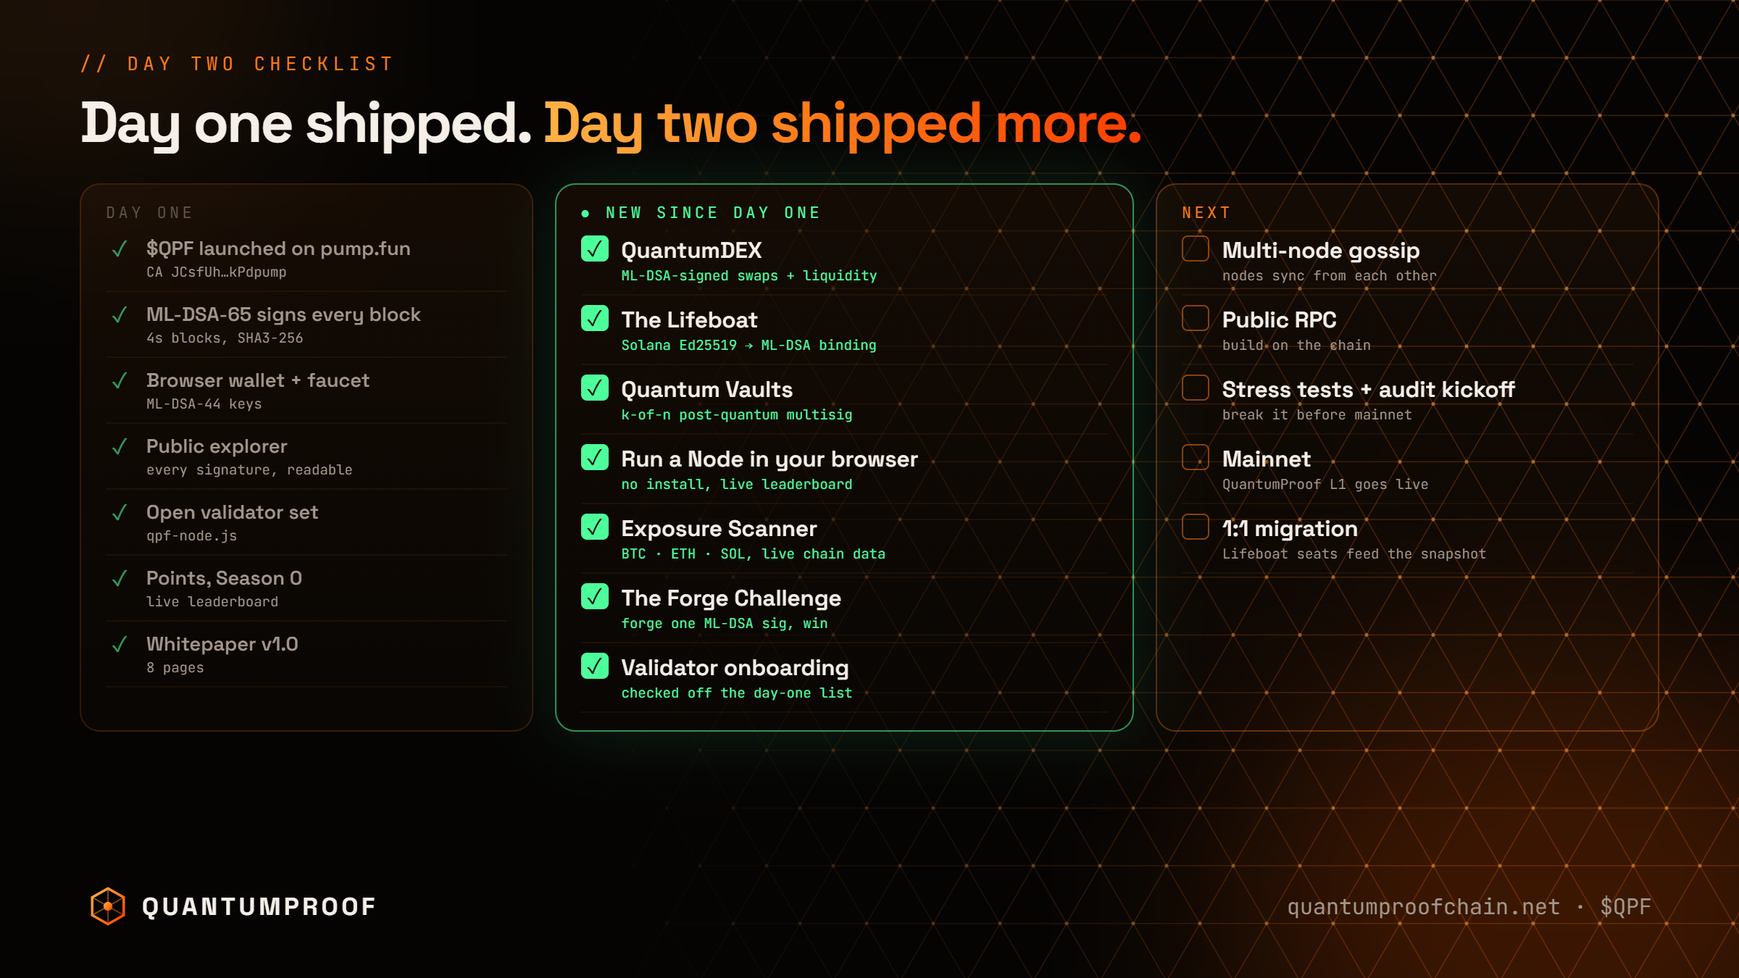
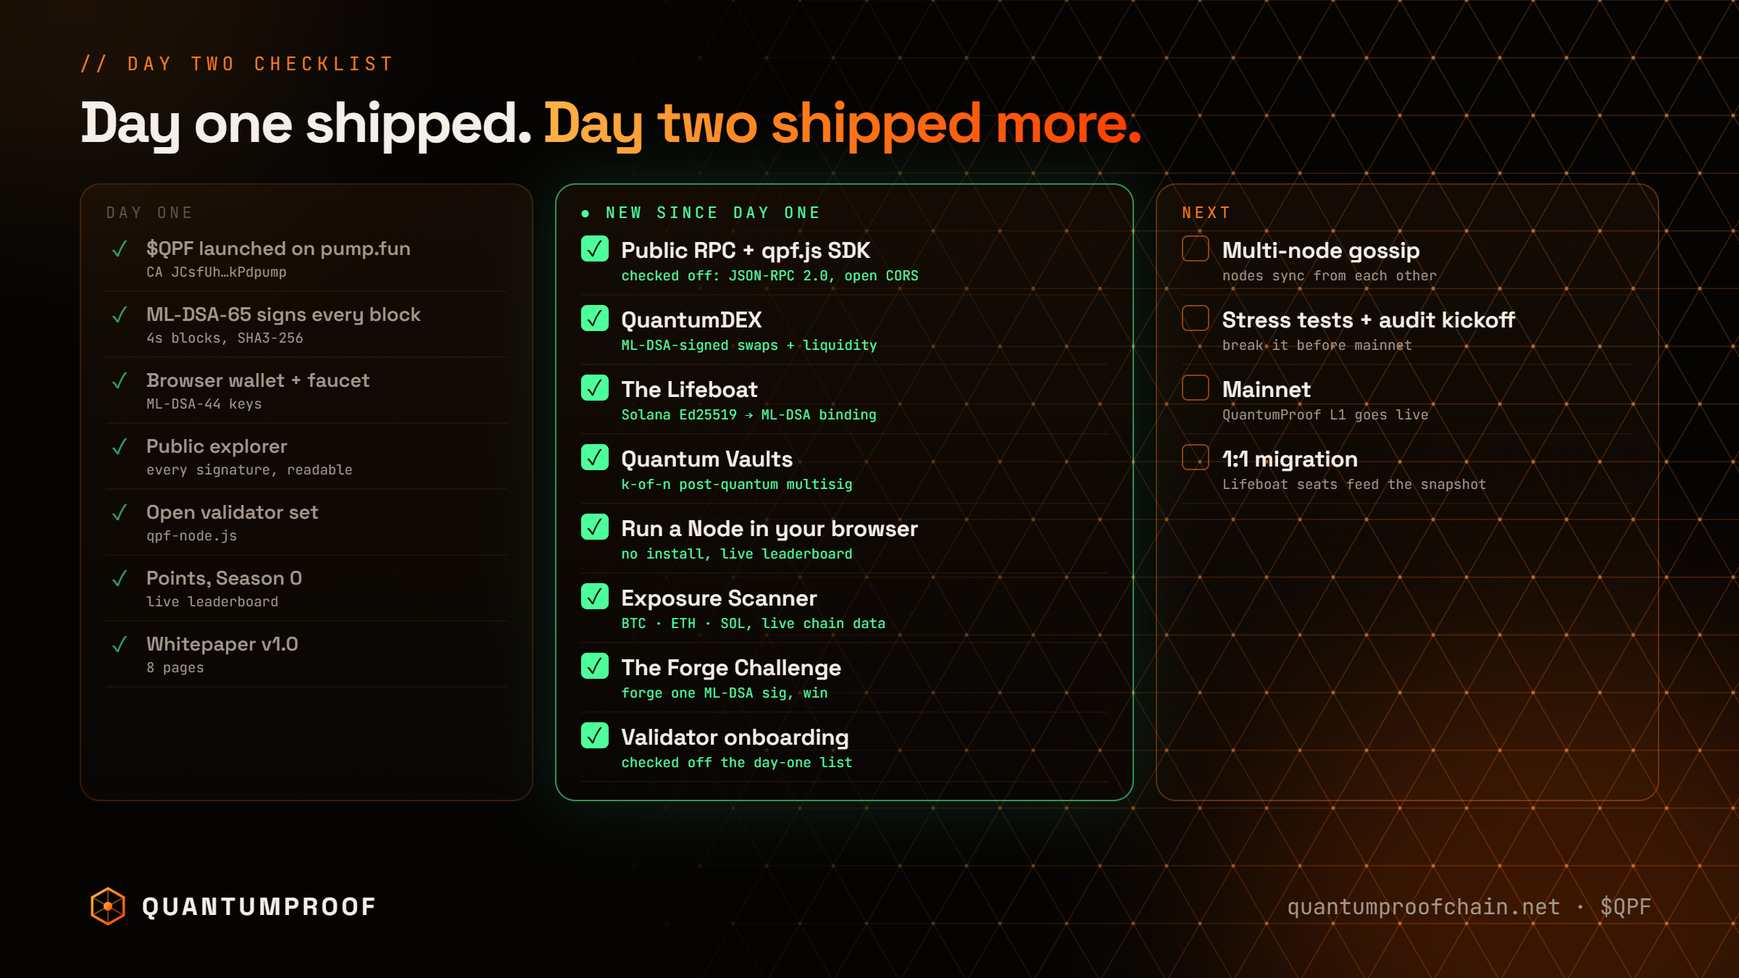
Day-two checklist: Public RPC checked off

diff --git a/_studio/src/qpf-checklist-day2.html b/_studio/src/qpf-checklist-day2.html
@@ -13,5 +13,5 @@ x.strokeStyle='rgba(255,122,24,'+(0.22*f)+')';x.beginPath();x.moveTo(px,py);x.li
 x.fillStyle='rgba(255,170,80,'+(.5*f)+')';x.beginPath();x.arc(px,py,2.6,0,7);x.fill();}})()</script>
 <div class="glow" style="width:900px;height:700px;right:-200px;bottom:-250px;background:rgba(255,90,0,.22)"></div><div class="glow" style="width:700px;height:500px;left:-250px;top:-250px;background:rgba(255,140,40,.1)"></div><div style="position:absolute;left:110px;right:110px;top:70px">
    <div class="k" style="font-size:26px">// day two checklist</div><div style="font-size:80px;font-weight:700;letter-spacing:-.035em;margin-top:12px">Day one shipped. <span class="g">Day two shipped more.</span></div>
-   <div style="display:grid;grid-template-columns:.9fr 1.15fr 1fr;gap:30px;margin-top:34px"><div class="card" style="padding:24px 34px;border-color:rgba(255,122,24,.16);"><div class="m" style="font-size:22px;letter-spacing:.2em;color:#5e544b;margin-bottom:4px">DAY ONE</div><div style="display:flex;gap:18px;align-items:flex-start;padding:13px 0;border-bottom:2px solid rgba(255,122,24,.07)"><span class="m" style="font-size:30px;line-height:36px;width:38px;flex:none;text-align:center;color:#4dff9a;opacity:.6">✓</span><div><div style="font-size:27px;font-weight:600;color:#a3968a">$QPF launched on pump.fun</div><div class="m mu" style="font-size:19px;margin-top:3px">CA JCsfUh…kPdpump</div></div></div><div style="display:flex;gap:18px;align-items:flex-start;padding:13px 0;border-bottom:2px solid rgba(255,122,24,.07)"><span class="m" style="font-size:30px;line-height:36px;width:38px;flex:none;text-align:center;color:#4dff9a;opacity:.6">✓</span><div><div style="font-size:27px;font-weight:600;color:#a3968a">ML-DSA-65 signs every block</div><div class="m mu" style="font-size:19px;margin-top:3px">4s blocks, SHA3-256</div></div></div><div style="display:flex;gap:18px;align-items:flex-start;padding:13px 0;border-bottom:2px solid rgba(255,122,24,.07)"><span class="m" style="font-size:30px;line-height:36px;width:38px;flex:none;text-align:center;color:#4dff9a;opacity:.6">✓</span><div><div style="font-size:27px;font-weight:600;color:#a3968a">Browser wallet + faucet</div><div class="m mu" style="font-size:19px;margin-top:3px">ML-DSA-44 keys</div></div></div><div style="display:flex;gap:18px;align-items:flex-start;padding:13px 0;border-bottom:2px solid rgba(255,122,24,.07)"><span class="m" style="font-size:30px;line-height:36px;width:38px;flex:none;text-align:center;color:#4dff9a;opacity:.6">✓</span><div><div style="font-size:27px;font-weight:600;color:#a3968a">Public explorer</div><div class="m mu" style="font-size:19px;margin-top:3px">every signature, readable</div></div></div><div style="display:flex;gap:18px;align-items:flex-start;padding:13px 0;border-bottom:2px solid rgba(255,122,24,.07)"><span class="m" style="font-size:30px;line-height:36px;width:38px;flex:none;text-align:center;color:#4dff9a;opacity:.6">✓</span><div><div style="font-size:27px;font-weight:600;color:#a3968a">Open validator set</div><div class="m mu" style="font-size:19px;margin-top:3px">qpf-node.js</div></div></div><div style="display:flex;gap:18px;align-items:flex-start;padding:13px 0;border-bottom:2px solid rgba(255,122,24,.07)"><span class="m" style="font-size:30px;line-height:36px;width:38px;flex:none;text-align:center;color:#4dff9a;opacity:.6">✓</span><div><div style="font-size:27px;font-weight:600;color:#a3968a">Points, Season 0</div><div class="m mu" style="font-size:19px;margin-top:3px">live leaderboard</div></div></div><div style="display:flex;gap:18px;align-items:flex-start;padding:13px 0;border-bottom:2px solid rgba(255,122,24,.07)"><span class="m" style="font-size:30px;line-height:36px;width:38px;flex:none;text-align:center;color:#4dff9a;opacity:.6">✓</span><div><div style="font-size:27px;font-weight:600;color:#a3968a">Whitepaper v1.0</div><div class="m mu" style="font-size:19px;margin-top:3px">8 pages</div></div></div></div><div class="card" style="padding:24px 34px;border-color:rgba(77,255,154,.55);box-shadow:0 0 90px rgba(77,255,154,.12)"><div class="m" style="font-size:22px;letter-spacing:.2em;color:#4dff9a;margin-bottom:4px">● NEW SINCE DAY ONE</div><div style="display:flex;gap:18px;align-items:flex-start;padding:13px 0;border-bottom:2px solid rgba(255,122,24,.07)"><span class="m" style="font-size:30px;line-height:36px;width:38px;flex:none;text-align:center;color:#050403;background:#4dff9a;border-radius:8px">✓</span><div><div style="font-size:31px;font-weight:600;">QuantumDEX</div><div class="m ok" style="font-size:19px;margin-top:3px">ML-DSA-signed swaps + liquidity</div></div></div><div style="display:flex;gap:18px;align-items:flex-start;padding:13px 0;border-bottom:2px solid rgba(255,122,24,.07)"><span class="m" style="font-size:30px;line-height:36px;width:38px;flex:none;text-align:center;color:#050403;background:#4dff9a;border-radius:8px">✓</span><div><div style="font-size:31px;font-weight:600;">The Lifeboat</div><div class="m ok" style="font-size:19px;margin-top:3px">Solana Ed25519 → ML-DSA binding</div></div></div><div style="display:flex;gap:18px;align-items:flex-start;padding:13px 0;border-bottom:2px solid rgba(255,122,24,.07)"><span class="m" style="font-size:30px;line-height:36px;width:38px;flex:none;text-align:center;color:#050403;background:#4dff9a;border-radius:8px">✓</span><div><div style="font-size:31px;font-weight:600;">Quantum Vaults</div><div class="m ok" style="font-size:19px;margin-top:3px">k-of-n post-quantum multisig</div></div></div><div style="display:flex;gap:18px;align-items:flex-start;padding:13px 0;border-bottom:2px solid rgba(255,122,24,.07)"><span class="m" style="font-size:30px;line-height:36px;width:38px;flex:none;text-align:center;color:#050403;background:#4dff9a;border-radius:8px">✓</span><div><div style="font-size:31px;font-weight:600;">Run a Node in your browser</div><div class="m ok" style="font-size:19px;margin-top:3px">no install, live leaderboard</div></div></div><div style="display:flex;gap:18px;align-items:flex-start;padding:13px 0;border-bottom:2px solid rgba(255,122,24,.07)"><span class="m" style="font-size:30px;line-height:36px;width:38px;flex:none;text-align:center;color:#050403;background:#4dff9a;border-radius:8px">✓</span><div><div style="font-size:31px;font-weight:600;">Exposure Scanner</div><div class="m ok" style="font-size:19px;margin-top:3px">BTC · ETH · SOL, live chain data</div></div></div><div style="display:flex;gap:18px;align-items:flex-start;padding:13px 0;border-bottom:2px solid rgba(255,122,24,.07)"><span class="m" style="font-size:30px;line-height:36px;width:38px;flex:none;text-align:center;color:#050403;background:#4dff9a;border-radius:8px">✓</span><div><div style="font-size:31px;font-weight:600;">The Forge Challenge</div><div class="m ok" style="font-size:19px;margin-top:3px">forge one ML-DSA sig, win</div></div></div><div style="display:flex;gap:18px;align-items:flex-start;padding:13px 0;border-bottom:2px solid rgba(255,122,24,.07)"><span class="m" style="font-size:30px;line-height:36px;width:38px;flex:none;text-align:center;color:#050403;background:#4dff9a;border-radius:8px">✓</span><div><div style="font-size:31px;font-weight:600;">Validator onboarding</div><div class="m ok" style="font-size:19px;margin-top:3px">checked off the day-one list</div></div></div></div><div class="card" style="padding:24px 34px;border-color:rgba(255,122,24,.3);"><div class="m" style="font-size:22px;letter-spacing:.2em;color:#ff7a18;margin-bottom:4px">NEXT</div><div style="display:flex;gap:18px;align-items:flex-start;padding:13px 0;border-bottom:2px solid rgba(255,122,24,.07)"><span class="m" style="font-size:30px;line-height:36px;width:38px;flex:none;text-align:center;border:2px solid rgba(255,122,24,.5);border-radius:8px;height:36px"></span><div><div style="font-size:31px;font-weight:600;">Multi-node gossip</div><div class="m mu" style="font-size:19px;margin-top:3px">nodes sync from each other</div></div></div><div style="display:flex;gap:18px;align-items:flex-start;padding:13px 0;border-bottom:2px solid rgba(255,122,24,.07)"><span class="m" style="font-size:30px;line-height:36px;width:38px;flex:none;text-align:center;border:2px solid rgba(255,122,24,.5);border-radius:8px;height:36px"></span><div><div style="font-size:31px;font-weight:600;">Public RPC</div><div class="m mu" style="font-size:19px;margin-top:3px">build on the chain</div></div></div><div style="display:flex;gap:18px;align-items:flex-start;padding:13px 0;border-bottom:2px solid rgba(255,122,24,.07)"><span class="m" style="font-size:30px;line-height:36px;width:38px;flex:none;text-align:center;border:2px solid rgba(255,122,24,.5);border-radius:8px;height:36px"></span><div><div style="font-size:31px;font-weight:600;">Stress tests + audit kickoff</div><div class="m mu" style="font-size:19px;margin-top:3px">break it before mainnet</div></div></div><div style="display:flex;gap:18px;align-items:flex-start;padding:13px 0;border-bottom:2px solid rgba(255,122,24,.07)"><span class="m" style="font-size:30px;line-height:36px;width:38px;flex:none;text-align:center;border:2px solid rgba(255,122,24,.5);border-radius:8px;height:36px"></span><div><div style="font-size:31px;font-weight:600;">Mainnet</div><div class="m mu" style="font-size:19px;margin-top:3px">QuantumProof L1 goes live</div></div></div><div style="display:flex;gap:18px;align-items:flex-start;padding:13px 0;border-bottom:2px solid rgba(255,122,24,.07)"><span class="m" style="font-size:30px;line-height:36px;width:38px;flex:none;text-align:center;border:2px solid rgba(255,122,24,.5);border-radius:8px;height:36px"></span><div><div style="font-size:31px;font-weight:600;">1:1 migration</div><div class="m mu" style="font-size:19px;margin-top:3px">Lifeboat seats feed the snapshot</div></div></div></div></div></div>
+   <div style="display:grid;grid-template-columns:.9fr 1.15fr 1fr;gap:30px;margin-top:34px"><div class="card" style="padding:24px 34px;border-color:rgba(255,122,24,.16);"><div class="m" style="font-size:22px;letter-spacing:.2em;color:#5e544b;margin-bottom:4px">DAY ONE</div><div style="display:flex;gap:18px;align-items:flex-start;padding:13px 0;border-bottom:2px solid rgba(255,122,24,.07)"><span class="m" style="font-size:30px;line-height:36px;width:38px;flex:none;text-align:center;color:#4dff9a;opacity:.6">✓</span><div><div style="font-size:27px;font-weight:600;color:#a3968a">$QPF launched on pump.fun</div><div class="m mu" style="font-size:19px;margin-top:3px">CA JCsfUh…kPdpump</div></div></div><div style="display:flex;gap:18px;align-items:flex-start;padding:13px 0;border-bottom:2px solid rgba(255,122,24,.07)"><span class="m" style="font-size:30px;line-height:36px;width:38px;flex:none;text-align:center;color:#4dff9a;opacity:.6">✓</span><div><div style="font-size:27px;font-weight:600;color:#a3968a">ML-DSA-65 signs every block</div><div class="m mu" style="font-size:19px;margin-top:3px">4s blocks, SHA3-256</div></div></div><div style="display:flex;gap:18px;align-items:flex-start;padding:13px 0;border-bottom:2px solid rgba(255,122,24,.07)"><span class="m" style="font-size:30px;line-height:36px;width:38px;flex:none;text-align:center;color:#4dff9a;opacity:.6">✓</span><div><div style="font-size:27px;font-weight:600;color:#a3968a">Browser wallet + faucet</div><div class="m mu" style="font-size:19px;margin-top:3px">ML-DSA-44 keys</div></div></div><div style="display:flex;gap:18px;align-items:flex-start;padding:13px 0;border-bottom:2px solid rgba(255,122,24,.07)"><span class="m" style="font-size:30px;line-height:36px;width:38px;flex:none;text-align:center;color:#4dff9a;opacity:.6">✓</span><div><div style="font-size:27px;font-weight:600;color:#a3968a">Public explorer</div><div class="m mu" style="font-size:19px;margin-top:3px">every signature, readable</div></div></div><div style="display:flex;gap:18px;align-items:flex-start;padding:13px 0;border-bottom:2px solid rgba(255,122,24,.07)"><span class="m" style="font-size:30px;line-height:36px;width:38px;flex:none;text-align:center;color:#4dff9a;opacity:.6">✓</span><div><div style="font-size:27px;font-weight:600;color:#a3968a">Open validator set</div><div class="m mu" style="font-size:19px;margin-top:3px">qpf-node.js</div></div></div><div style="display:flex;gap:18px;align-items:flex-start;padding:13px 0;border-bottom:2px solid rgba(255,122,24,.07)"><span class="m" style="font-size:30px;line-height:36px;width:38px;flex:none;text-align:center;color:#4dff9a;opacity:.6">✓</span><div><div style="font-size:27px;font-weight:600;color:#a3968a">Points, Season 0</div><div class="m mu" style="font-size:19px;margin-top:3px">live leaderboard</div></div></div><div style="display:flex;gap:18px;align-items:flex-start;padding:13px 0;border-bottom:2px solid rgba(255,122,24,.07)"><span class="m" style="font-size:30px;line-height:36px;width:38px;flex:none;text-align:center;color:#4dff9a;opacity:.6">✓</span><div><div style="font-size:27px;font-weight:600;color:#a3968a">Whitepaper v1.0</div><div class="m mu" style="font-size:19px;margin-top:3px">8 pages</div></div></div></div><div class="card" style="padding:24px 34px;border-color:rgba(77,255,154,.55);box-shadow:0 0 90px rgba(77,255,154,.12)"><div class="m" style="font-size:22px;letter-spacing:.2em;color:#4dff9a;margin-bottom:4px">● NEW SINCE DAY ONE</div><div style="display:flex;gap:18px;align-items:flex-start;padding:13px 0;border-bottom:2px solid rgba(255,122,24,.07)"><span class="m" style="font-size:30px;line-height:36px;width:38px;flex:none;text-align:center;color:#050403;background:#4dff9a;border-radius:8px">✓</span><div><div style="font-size:31px;font-weight:600;">Public RPC + qpf.js SDK</div><div class="m ok" style="font-size:19px;margin-top:3px">checked off: JSON-RPC 2.0, open CORS</div></div></div><div style="display:flex;gap:18px;align-items:flex-start;padding:13px 0;border-bottom:2px solid rgba(255,122,24,.07)"><span class="m" style="font-size:30px;line-height:36px;width:38px;flex:none;text-align:center;color:#050403;background:#4dff9a;border-radius:8px">✓</span><div><div style="font-size:31px;font-weight:600;">QuantumDEX</div><div class="m ok" style="font-size:19px;margin-top:3px">ML-DSA-signed swaps + liquidity</div></div></div><div style="display:flex;gap:18px;align-items:flex-start;padding:13px 0;border-bottom:2px solid rgba(255,122,24,.07)"><span class="m" style="font-size:30px;line-height:36px;width:38px;flex:none;text-align:center;color:#050403;background:#4dff9a;border-radius:8px">✓</span><div><div style="font-size:31px;font-weight:600;">The Lifeboat</div><div class="m ok" style="font-size:19px;margin-top:3px">Solana Ed25519 → ML-DSA binding</div></div></div><div style="display:flex;gap:18px;align-items:flex-start;padding:13px 0;border-bottom:2px solid rgba(255,122,24,.07)"><span class="m" style="font-size:30px;line-height:36px;width:38px;flex:none;text-align:center;color:#050403;background:#4dff9a;border-radius:8px">✓</span><div><div style="font-size:31px;font-weight:600;">Quantum Vaults</div><div class="m ok" style="font-size:19px;margin-top:3px">k-of-n post-quantum multisig</div></div></div><div style="display:flex;gap:18px;align-items:flex-start;padding:13px 0;border-bottom:2px solid rgba(255,122,24,.07)"><span class="m" style="font-size:30px;line-height:36px;width:38px;flex:none;text-align:center;color:#050403;background:#4dff9a;border-radius:8px">✓</span><div><div style="font-size:31px;font-weight:600;">Run a Node in your browser</div><div class="m ok" style="font-size:19px;margin-top:3px">no install, live leaderboard</div></div></div><div style="display:flex;gap:18px;align-items:flex-start;padding:13px 0;border-bottom:2px solid rgba(255,122,24,.07)"><span class="m" style="font-size:30px;line-height:36px;width:38px;flex:none;text-align:center;color:#050403;background:#4dff9a;border-radius:8px">✓</span><div><div style="font-size:31px;font-weight:600;">Exposure Scanner</div><div class="m ok" style="font-size:19px;margin-top:3px">BTC · ETH · SOL, live chain data</div></div></div><div style="display:flex;gap:18px;align-items:flex-start;padding:13px 0;border-bottom:2px solid rgba(255,122,24,.07)"><span class="m" style="font-size:30px;line-height:36px;width:38px;flex:none;text-align:center;color:#050403;background:#4dff9a;border-radius:8px">✓</span><div><div style="font-size:31px;font-weight:600;">The Forge Challenge</div><div class="m ok" style="font-size:19px;margin-top:3px">forge one ML-DSA sig, win</div></div></div><div style="display:flex;gap:18px;align-items:flex-start;padding:13px 0;border-bottom:2px solid rgba(255,122,24,.07)"><span class="m" style="font-size:30px;line-height:36px;width:38px;flex:none;text-align:center;color:#050403;background:#4dff9a;border-radius:8px">✓</span><div><div style="font-size:31px;font-weight:600;">Validator onboarding</div><div class="m ok" style="font-size:19px;margin-top:3px">checked off the day-one list</div></div></div></div><div class="card" style="padding:24px 34px;border-color:rgba(255,122,24,.3);"><div class="m" style="font-size:22px;letter-spacing:.2em;color:#ff7a18;margin-bottom:4px">NEXT</div><div style="display:flex;gap:18px;align-items:flex-start;padding:13px 0;border-bottom:2px solid rgba(255,122,24,.07)"><span class="m" style="font-size:30px;line-height:36px;width:38px;flex:none;text-align:center;border:2px solid rgba(255,122,24,.5);border-radius:8px;height:36px"></span><div><div style="font-size:31px;font-weight:600;">Multi-node gossip</div><div class="m mu" style="font-size:19px;margin-top:3px">nodes sync from each other</div></div></div><div style="display:flex;gap:18px;align-items:flex-start;padding:13px 0;border-bottom:2px solid rgba(255,122,24,.07)"><span class="m" style="font-size:30px;line-height:36px;width:38px;flex:none;text-align:center;border:2px solid rgba(255,122,24,.5);border-radius:8px;height:36px"></span><div><div style="font-size:31px;font-weight:600;">Stress tests + audit kickoff</div><div class="m mu" style="font-size:19px;margin-top:3px">break it before mainnet</div></div></div><div style="display:flex;gap:18px;align-items:flex-start;padding:13px 0;border-bottom:2px solid rgba(255,122,24,.07)"><span class="m" style="font-size:30px;line-height:36px;width:38px;flex:none;text-align:center;border:2px solid rgba(255,122,24,.5);border-radius:8px;height:36px"></span><div><div style="font-size:31px;font-weight:600;">Mainnet</div><div class="m mu" style="font-size:19px;margin-top:3px">QuantumProof L1 goes live</div></div></div><div style="display:flex;gap:18px;align-items:flex-start;padding:13px 0;border-bottom:2px solid rgba(255,122,24,.07)"><span class="m" style="font-size:30px;line-height:36px;width:38px;flex:none;text-align:center;border:2px solid rgba(255,122,24,.5);border-radius:8px;height:36px"></span><div><div style="font-size:31px;font-weight:600;">1:1 migration</div><div class="m mu" style="font-size:19px;margin-top:3px">Lifeboat seats feed the snapshot</div></div></div></div></div></div>
 <div class="foot"><span class="brand"><svg viewBox="0 0 40 40" style="width:58px;height:58px"><defs><linearGradient id="lg58" x1="0" y1="0" x2="1" y2="1"><stop offset="0" stop-color="#ffb347"/><stop offset=".55" stop-color="#ff7a18"/><stop offset="1" stop-color="#ff3d00"/></linearGradient></defs><path d="M20 3 35 11.5v17L20 37 5 28.5v-17Z" fill="none" stroke="url(#lg58)" stroke-width="2.4"/><path d="M20 3v34M5 11.5l30 17M35 11.5l-30 17" stroke="url(#lg58)" stroke-width="1.2" opacity=".55"/><circle cx="20" cy="20" r="4.2" fill="url(#lg58)"/></svg>QUANTUMPROOF</span><span class="m mu">quantumproofchain.net · $QPF</span></div></body>

diff --git a/_studio/kit.js b/_studio/kit.js
@@ -20,8 +20,8 @@ x.fillStyle='rgba(255,170,80,'+(.5*f)+')';x.beginPath();x.arc(px,py,2.6,0,7);x.f
 // day-two checklist columns: [title, color, border, rows, kind d=day-one done / n=new / x=next]
 const CHK2 = [
   ['DAY ONE', '#5e544b', 'rgba(255,122,24,.16)', [['$QPF launched on pump.fun', 'CA JCsfUh…kPdpump'], ['ML-DSA-65 signs every block', '4s blocks, SHA3-256'], ['Browser wallet + faucet', 'ML-DSA-44 keys'], ['Public explorer', 'every signature, readable'], ['Open validator set', 'qpf-node.js'], ['Points, Season 0', 'live leaderboard'], ['Whitepaper v1.0', '8 pages']], 'd'],
-  ['● NEW SINCE DAY ONE', '#4dff9a', 'rgba(77,255,154,.55)', [['QuantumDEX', 'ML-DSA-signed swaps + liquidity'], ['The Lifeboat', 'Solana Ed25519 → ML-DSA binding'], ['Quantum Vaults', 'k-of-n post-quantum multisig'], ['Run a Node in your browser', 'no install, live leaderboard'], ['Exposure Scanner', 'BTC · ETH · SOL, live chain data'], ['The Forge Challenge', 'forge one ML-DSA sig, win'], ['Validator onboarding', 'checked off the day-one list']], 'n'],
-  ['NEXT', '#ff7a18', 'rgba(255,122,24,.3)', [['Multi-node gossip', 'nodes sync from each other'], ['Public RPC', 'build on the chain'], ['Stress tests + audit kickoff', 'break it before mainnet'], ['Mainnet', 'QuantumProof L1 goes live'], ['1:1 migration', 'Lifeboat seats feed the snapshot']], 'x'],
+  ['● NEW SINCE DAY ONE', '#4dff9a', 'rgba(77,255,154,.55)', [['Public RPC + qpf.js SDK', 'checked off: JSON-RPC 2.0, open CORS'], ['QuantumDEX', 'ML-DSA-signed swaps + liquidity'], ['The Lifeboat', 'Solana Ed25519 → ML-DSA binding'], ['Quantum Vaults', 'k-of-n post-quantum multisig'], ['Run a Node in your browser', 'no install, live leaderboard'], ['Exposure Scanner', 'BTC · ETH · SOL, live chain data'], ['The Forge Challenge', 'forge one ML-DSA sig, win'], ['Validator onboarding', 'checked off the day-one list']], 'n'],
+  ['NEXT', '#ff7a18', 'rgba(255,122,24,.3)', [['Multi-node gossip', 'nodes sync from each other'], ['Stress tests + audit kickoff', 'break it before mainnet'], ['Mainnet', 'QuantumProof L1 goes live'], ['1:1 migration', 'Lifeboat seats feed the snapshot']], 'x'],
 ];
 const BOX = { n: 'color:#050403;background:#4dff9a;border-radius:8px', d: 'color:#4dff9a;opacity:.6', x: 'border:2px solid rgba(255,122,24,.5);border-radius:8px;height:36px' };
 const colDay2 = ([t, c, b, rows, k]) => `<div class="card" style="padding:24px 34px;border-color:${b};${k === 'n' ? 'box-shadow:0 0 90px rgba(77,255,154,.12)' : ''}"><div class="m" style="font-size:22px;letter-spacing:.2em;color:${c};margin-bottom:4px">${t}</div>${rows.map(([a, d]) => `<div style="display:flex;gap:18px;align-items:flex-start;padding:13px 0;border-bottom:2px solid rgba(255,122,24,.07)"><span class="m" style="font-size:30px;line-height:36px;width:38px;flex:none;text-align:center;${BOX[k]}">${k === 'x' ? '' : '✓'}</span><div><div style="font-size:${k === 'd' ? 27 : 31}px;font-weight:600;${k === 'd' ? 'color:#a3968a' : ''}">${a}</div><div class="m ${k === 'n' ? 'ok' : 'mu'}" style="font-size:19px;margin-top:3px">${d}</div></div></div>`).join('')}</div>`;

diff --git a/_studio/tweets.js b/_studio/tweets.js
@@ -329,9 +329,9 @@ No install. Live leaderboard.
 quantumproofchain.net/node`],
   ['qpf-checklist-day2.png', `Day two checklist.
 
-New since day one: QuantumDEX, the Lifeboat, Quantum Vaults, browser validators, the Exposure Scanner and the Forge Challenge.
+New since day one: Public RPC + SDK, QuantumDEX, the Lifeboat, Quantum Vaults, browser validators, the Exposure Scanner, the Forge.
 
-Next: gossip, public RPC, audit, mainnet, 1:1 migration.
+Next: gossip, audit, mainnet, 1:1 migration.
 
 $QPF`],
   ['qpf-mainnet-preview.png', `Mainnet preview.

diff --git a/brand/X-KIT.md b/brand/X-KIT.md
@@ -492,9 +492,9 @@ quantumproofchain.net/node
 ```
 Day two checklist.
 
-New since day one: QuantumDEX, the Lifeboat, Quantum Vaults, browser validators, the Exposure Scanner and the Forge Challenge.
+New since day one: Public RPC + SDK, QuantumDEX, the Lifeboat, Quantum Vaults, browser validators, the Exposure Scanner, the Forge.
 
-Next: gossip, public RPC, audit, mainnet, 1:1 migration.
+Next: gossip, audit, mainnet, 1:1 migration.
 
 $QPF
 ```
